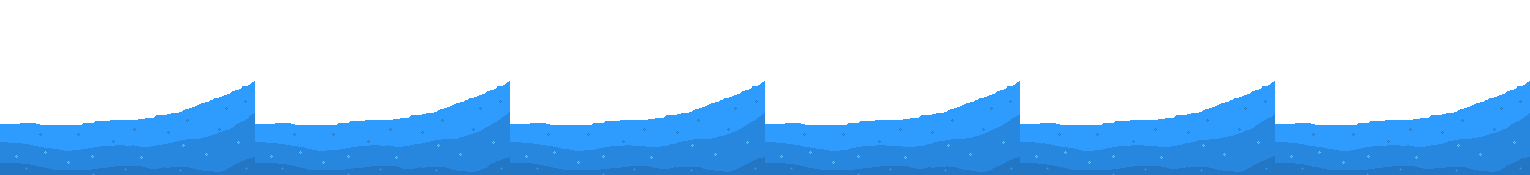
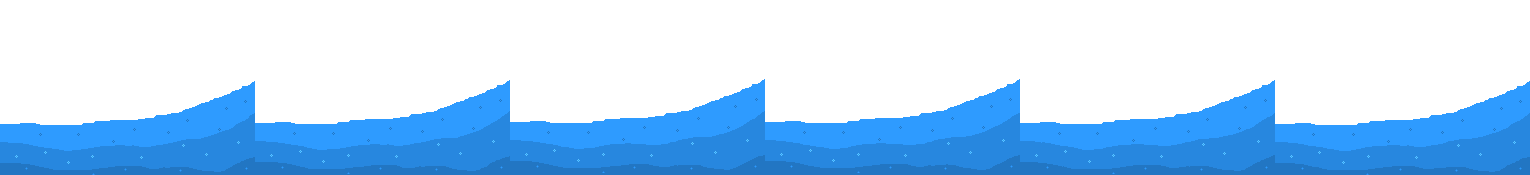
fixed the waves

diff --git a/Overworld/TownSouth.cpp b/Overworld/TownSouth.cpp
@@ -76,9 +76,10 @@ TownSouth::TownSouth(const ResourceHolder& resources, const std::vector<Conditio
 	addObject(theColonel);
 	
 	//The Waves
-	MapObject waves (make_unique<GraphicsComponent>(resources.getTexture(Textures::WavesSouth), sf::Vector2f (127,200)));
+	MapObject waves (make_unique<AnimatedComponent>(resources.getTexture(Textures::WavesSouth), sf::Vector2f (127 * scale, 288 * scale), 0.6, sf::Vector2i(255, 175)));
 	waves.setScale(scale);
 	waves.addCollisionBox(-3 * scale, 10 * scale, 6 * scale, 2 * scale);
+	waves.offsetBase(-300);
 	addObject(waves);
 
 	
